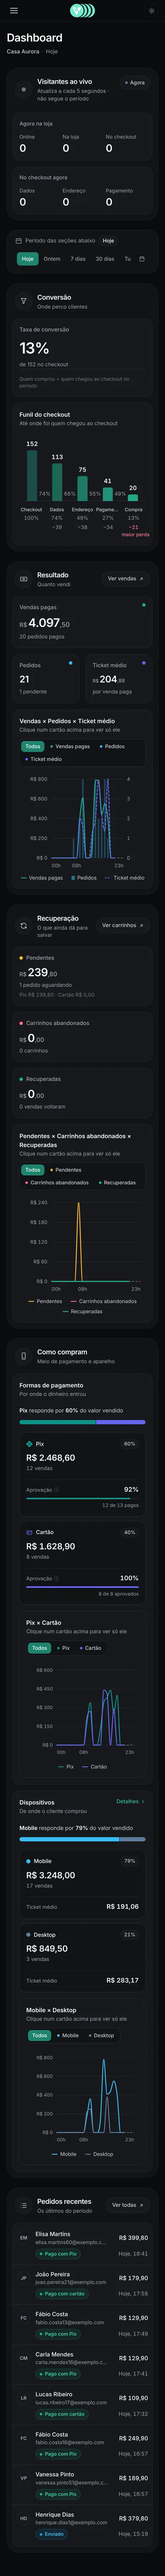
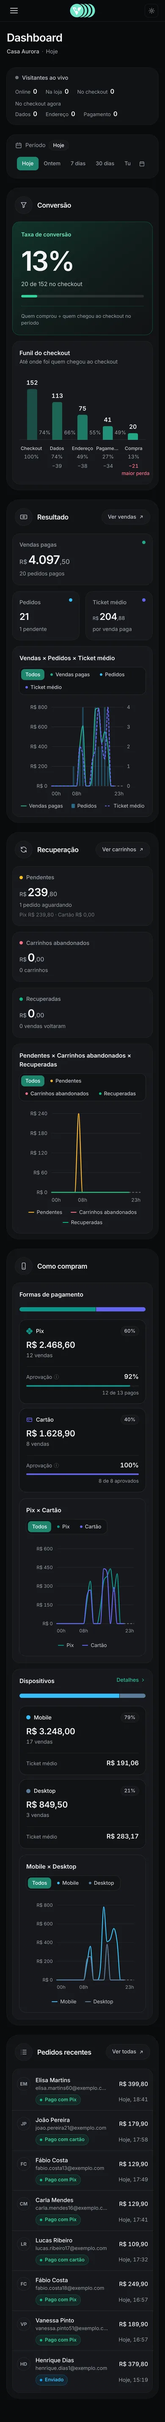
Visitantes ao vivo em faixa baixa, destaque na taxa de conversão, textos mais secos
- Visitantes ao vivo: uma linha só, sem caixas internas, números menores
- Taxa de conversão: fundo verde de destaque, número em 64px, barra e
  "X de Y no checkout"
- remove frases acrescentadas: perguntas sob o título das seções, "mesmas
  etapas do funil", "Período das seções abaixo", frases de quem lidera,
  subtítulos de Formas de pagamento/Dispositivos e instruções de clique
  do gráfico; ficam as explicações originais e as fórmulas

Claude-Session: https://claude.ai/code/session_01Mj6yowmnasuG43TB7WhMV6

diff --git a/index.html b/index.html
@@ -38,7 +38,7 @@ main{padding:22px 28px 60px;min-width:0}
 <main><div class="top"><h1 id="t"></h1><span class="ver" id="v" hidden></span><span class="rota" id="r"></span><div class="nav"><button id="ant">← Anterior</button><button id="prox">Próxima →</button></div></div>
 <div class="shot" id="s"><img id="i" alt=""></div><div class="dica">Telas com chave na coluna têm duas versões: ligada mostra o layout novo, desligada o antigo. Para pedir um ajuste, diga o nome da tela e o que mudar.</div></main></div>
 <script>
-const D=[{"id": "painel-dashboard", "grupo": "Painel do lojista", "titulo": "Dashboard", "rota": "/painel", "img": "telas/painel-dashboard.webp", "w": 1440, "h": 3955, "mobile": false, "antigo": {"img": "telas/painel-dashboard-antigo.webp", "w": 1440, "h": 1708}}, {"id": "painel-inicio", "grupo": "Painel do lojista", "titulo": "Início", "rota": "/painel/inicio", "img": "telas/painel-inicio.webp", "w": 1440, "h": 1024, "mobile": false}, {"id": "painel-vendas", "grupo": "Painel do lojista", "titulo": "Vendas", "rota": "/painel/vendas", "img": "telas/painel-vendas.webp", "w": 1440, "h": 1024, "mobile": false}, {"id": "painel-carrinhos", "grupo": "Painel do lojista", "titulo": "Carrinhos abandonados", "rota": "/painel/carrinhos", "img": "telas/painel-carrinhos.webp", "w": 1440, "h": 1038, "mobile": false}, {"id": "painel-desempenho", "grupo": "Painel do lojista", "titulo": "Desempenho", "rota": "/painel/desempenho", "img": "telas/painel-desempenho.webp", "w": 1440, "h": 1024, "mobile": false}, {"id": "painel-dispositivos", "grupo": "Painel do lojista", "titulo": "Dispositivos", "rota": "/painel/dispositivos", "img": "telas/painel-dispositivos.webp", "w": 1440, "h": 1024, "mobile": false}, {"id": "painel-produtos", "grupo": "Painel do lojista", "titulo": "Produtos", "rota": "/painel/produtos", "img": "telas/painel-produtos.webp", "w": 1440, "h": 1024, "mobile": false}, {"id": "painel-criptografia", "grupo": "Painel do lojista", "titulo": "Criptografia", "rota": "/painel/criptografia", "img": "telas/painel-criptografia.webp", "w": 1440, "h": 1090, "mobile": false}, {"id": "painel-cupons", "grupo": "Painel do lojista", "titulo": "Cupons", "rota": "/painel/cupons", "img": "telas/painel-cupons.webp", "w": 1440, "h": 1024, "mobile": false}, {"id": "painel-order-bump", "grupo": "Painel do lojista", "titulo": "Order bump", "rota": "/painel/order-bump", "img": "telas/painel-order-bump.webp", "w": 1440, "h": 1024, "mobile": false}, {"id": "painel-provas-sociais", "grupo": "Painel do lojista", "titulo": "Provas sociais", "rota": "/painel/provas-sociais", "img": "telas/painel-provas-sociais.webp", "w": 1440, "h": 1024, "mobile": false}, {"id": "painel-personalizar", "grupo": "Painel do lojista", "titulo": "Personalizar checkout", "rota": "/painel/personalizar", "img": "telas/painel-personalizar.webp", "w": 1440, "h": 1024, "mobile": false}, {"id": "painel-pagamentos", "grupo": "Painel do lojista", "titulo": "Pagamentos", "rota": "/painel/pagamentos", "img": "telas/painel-pagamentos.webp", "w": 1440, "h": 1419, "mobile": false}, {"id": "painel-pixels", "grupo": "Painel do lojista", "titulo": "Pixels", "rota": "/painel/pixels", "img": "telas/painel-pixels.webp", "w": 1440, "h": 1024, "mobile": false}, {"id": "painel-emails", "grupo": "Painel do lojista", "titulo": "E-mails", "rota": "/painel/emails", "img": "telas/painel-emails.webp", "w": 1440, "h": 1715, "mobile": false}, {"id": "painel-webhooks", "grupo": "Painel do lojista", "titulo": "Webhooks", "rota": "/painel/webhooks", "img": "telas/painel-webhooks.webp", "w": 1440, "h": 1024, "mobile": false}, {"id": "painel-dominio", "grupo": "Painel do lojista", "titulo": "Domínio", "rota": "/painel/dominio", "img": "telas/painel-dominio.webp", "w": 1440, "h": 1024, "mobile": false}, {"id": "painel-shopify", "grupo": "Painel do lojista", "titulo": "Shopify", "rota": "/painel/shopify", "img": "telas/painel-shopify.webp", "w": 1440, "h": 1024, "mobile": false}, {"id": "painel-apps", "grupo": "Painel do lojista", "titulo": "Apps", "rota": "/painel/apps", "img": "telas/painel-apps.webp", "w": 1440, "h": 1024, "mobile": false}, {"id": "painel-taxas", "grupo": "Painel do lojista", "titulo": "Taxas", "rota": "/painel/taxas", "img": "telas/painel-taxas.webp", "w": 1440, "h": 1024, "mobile": false}, {"id": "painel-plano", "grupo": "Painel do lojista", "titulo": "Plano", "rota": "/painel/plano", "img": "telas/painel-plano.webp", "w": 1440, "h": 1024, "mobile": false}, {"id": "painel-seguranca", "grupo": "Painel do lojista", "titulo": "Segurança", "rota": "/painel/seguranca", "img": "telas/painel-seguranca.webp", "w": 1440, "h": 2548, "mobile": false}, {"id": "painel-configuracoes", "grupo": "Painel do lojista", "titulo": "Configurações", "rota": "/painel/configuracoes", "img": "telas/painel-configuracoes.webp", "w": 1440, "h": 1024, "mobile": false}, {"id": "painel-detalhe-venda", "grupo": "Painel do lojista", "titulo": "Detalhe da venda", "rota": "/painel/vendas/101044fc-720e-4f02-a70a-a1bbfcc3d4ec", "img": "telas/painel-detalhe-venda.webp", "w": 1440, "h": 1024, "mobile": false}, {"id": "painel-caixa-de-emails", "grupo": "Painel do lojista", "titulo": "Caixa de e-mails", "rota": "/painel/emails/caixa", "img": "telas/painel-caixa-de-emails.webp", "w": 1440, "h": 1090, "mobile": false}, {"id": "admin-visao-geral", "grupo": "Admin da plataforma", "titulo": "Visão geral", "rota": "/admin", "img": "telas/admin-inicio.webp", "w": 1440, "h": 1430, "mobile": false}, {"id": "admin-lojas", "grupo": "Admin da plataforma", "titulo": "Lojas", "rota": "/admin/lojas", "img": "telas/admin-lojas.webp", "w": 1440, "h": 900, "mobile": false}, {"id": "admin-usuarios", "grupo": "Admin da plataforma", "titulo": "Usuários", "rota": "/admin/usuarios", "img": "telas/admin-usuarios.webp", "w": 1440, "h": 900, "mobile": false}, {"id": "admin-clientes", "grupo": "Admin da plataforma", "titulo": "Clientes", "rota": "/admin/clientes", "img": "telas/admin-clientes.webp", "w": 1440, "h": 1958, "mobile": false}, {"id": "admin-transacoes", "grupo": "Admin da plataforma", "titulo": "Transações", "rota": "/admin/transacoes", "img": "telas/admin-transacoes.webp", "w": 1440, "h": 1994, "mobile": false}, {"id": "admin-taxas", "grupo": "Admin da plataforma", "titulo": "Taxas", "rota": "/admin/taxas", "img": "telas/admin-taxas.webp", "w": 1440, "h": 900, "mobile": false}, {"id": "admin-assinaturas", "grupo": "Admin da plataforma", "titulo": "Assinaturas", "rota": "/admin/assinaturas", "img": "telas/admin-assinaturas.webp", "w": 1440, "h": 900, "mobile": false}, {"id": "admin-relatorios", "grupo": "Admin da plataforma", "titulo": "Relatórios", "rota": "/admin/relatorios", "img": "telas/admin-relatorios.webp", "w": 1440, "h": 907, "mobile": false}, {"id": "admin-emails", "grupo": "Admin da plataforma", "titulo": "E-mails", "rota": "/admin/emails", "img": "telas/admin-emails.webp", "w": 1440, "h": 900, "mobile": false}, {"id": "admin-configuracoes", "grupo": "Admin da plataforma", "titulo": "Configurações", "rota": "/admin/configuracoes", "img": "telas/admin-configuracoes.webp", "w": 1440, "h": 1286, "mobile": false}, {"id": "celular-dashboard", "grupo": "Painel no celular", "titulo": "Dashboard", "rota": "/painel", "img": "telas/celular-dashboard.webp", "w": 390, "h": 6077, "mobile": true, "antigo": {"img": "telas/celular-dashboard-antigo.webp", "w": 390, "h": 2945}}, {"id": "celular-inicio", "grupo": "Painel no celular", "titulo": "Início", "rota": "/painel/inicio", "img": "telas/celular-inicio.webp", "w": 390, "h": 2208, "mobile": true}, {"id": "celular-vendas", "grupo": "Painel no celular", "titulo": "Vendas", "rota": "/painel/vendas", "img": "telas/celular-vendas.webp", "w": 390, "h": 1410, "mobile": true}, {"id": "acesso-login", "grupo": "Acesso", "titulo": "Login", "rota": "/login", "img": "telas/acesso-login.webp", "w": 1440, "h": 900, "mobile": false}];
+const D=[{"id": "painel-dashboard", "grupo": "Painel do lojista", "titulo": "Dashboard", "rota": "/painel", "img": "telas/painel-dashboard.webp", "w": 1440, "h": 3658, "mobile": false, "antigo": {"img": "telas/painel-dashboard-antigo.webp", "w": 1440, "h": 1708}}, {"id": "painel-inicio", "grupo": "Painel do lojista", "titulo": "Início", "rota": "/painel/inicio", "img": "telas/painel-inicio.webp", "w": 1440, "h": 1024, "mobile": false}, {"id": "painel-vendas", "grupo": "Painel do lojista", "titulo": "Vendas", "rota": "/painel/vendas", "img": "telas/painel-vendas.webp", "w": 1440, "h": 1024, "mobile": false}, {"id": "painel-carrinhos", "grupo": "Painel do lojista", "titulo": "Carrinhos abandonados", "rota": "/painel/carrinhos", "img": "telas/painel-carrinhos.webp", "w": 1440, "h": 1038, "mobile": false}, {"id": "painel-desempenho", "grupo": "Painel do lojista", "titulo": "Desempenho", "rota": "/painel/desempenho", "img": "telas/painel-desempenho.webp", "w": 1440, "h": 1024, "mobile": false}, {"id": "painel-dispositivos", "grupo": "Painel do lojista", "titulo": "Dispositivos", "rota": "/painel/dispositivos", "img": "telas/painel-dispositivos.webp", "w": 1440, "h": 1024, "mobile": false}, {"id": "painel-produtos", "grupo": "Painel do lojista", "titulo": "Produtos", "rota": "/painel/produtos", "img": "telas/painel-produtos.webp", "w": 1440, "h": 1024, "mobile": false}, {"id": "painel-criptografia", "grupo": "Painel do lojista", "titulo": "Criptografia", "rota": "/painel/criptografia", "img": "telas/painel-criptografia.webp", "w": 1440, "h": 1090, "mobile": false}, {"id": "painel-cupons", "grupo": "Painel do lojista", "titulo": "Cupons", "rota": "/painel/cupons", "img": "telas/painel-cupons.webp", "w": 1440, "h": 1024, "mobile": false}, {"id": "painel-order-bump", "grupo": "Painel do lojista", "titulo": "Order bump", "rota": "/painel/order-bump", "img": "telas/painel-order-bump.webp", "w": 1440, "h": 1024, "mobile": false}, {"id": "painel-provas-sociais", "grupo": "Painel do lojista", "titulo": "Provas sociais", "rota": "/painel/provas-sociais", "img": "telas/painel-provas-sociais.webp", "w": 1440, "h": 1024, "mobile": false}, {"id": "painel-personalizar", "grupo": "Painel do lojista", "titulo": "Personalizar checkout", "rota": "/painel/personalizar", "img": "telas/painel-personalizar.webp", "w": 1440, "h": 1024, "mobile": false}, {"id": "painel-pagamentos", "grupo": "Painel do lojista", "titulo": "Pagamentos", "rota": "/painel/pagamentos", "img": "telas/painel-pagamentos.webp", "w": 1440, "h": 1419, "mobile": false}, {"id": "painel-pixels", "grupo": "Painel do lojista", "titulo": "Pixels", "rota": "/painel/pixels", "img": "telas/painel-pixels.webp", "w": 1440, "h": 1024, "mobile": false}, {"id": "painel-emails", "grupo": "Painel do lojista", "titulo": "E-mails", "rota": "/painel/emails", "img": "telas/painel-emails.webp", "w": 1440, "h": 1715, "mobile": false}, {"id": "painel-webhooks", "grupo": "Painel do lojista", "titulo": "Webhooks", "rota": "/painel/webhooks", "img": "telas/painel-webhooks.webp", "w": 1440, "h": 1024, "mobile": false}, {"id": "painel-dominio", "grupo": "Painel do lojista", "titulo": "Domínio", "rota": "/painel/dominio", "img": "telas/painel-dominio.webp", "w": 1440, "h": 1024, "mobile": false}, {"id": "painel-shopify", "grupo": "Painel do lojista", "titulo": "Shopify", "rota": "/painel/shopify", "img": "telas/painel-shopify.webp", "w": 1440, "h": 1024, "mobile": false}, {"id": "painel-apps", "grupo": "Painel do lojista", "titulo": "Apps", "rota": "/painel/apps", "img": "telas/painel-apps.webp", "w": 1440, "h": 1024, "mobile": false}, {"id": "painel-taxas", "grupo": "Painel do lojista", "titulo": "Taxas", "rota": "/painel/taxas", "img": "telas/painel-taxas.webp", "w": 1440, "h": 1024, "mobile": false}, {"id": "painel-plano", "grupo": "Painel do lojista", "titulo": "Plano", "rota": "/painel/plano", "img": "telas/painel-plano.webp", "w": 1440, "h": 1024, "mobile": false}, {"id": "painel-seguranca", "grupo": "Painel do lojista", "titulo": "Segurança", "rota": "/painel/seguranca", "img": "telas/painel-seguranca.webp", "w": 1440, "h": 2548, "mobile": false}, {"id": "painel-configuracoes", "grupo": "Painel do lojista", "titulo": "Configurações", "rota": "/painel/configuracoes", "img": "telas/painel-configuracoes.webp", "w": 1440, "h": 1024, "mobile": false}, {"id": "painel-detalhe-venda", "grupo": "Painel do lojista", "titulo": "Detalhe da venda", "rota": "/painel/vendas/101044fc-720e-4f02-a70a-a1bbfcc3d4ec", "img": "telas/painel-detalhe-venda.webp", "w": 1440, "h": 1024, "mobile": false}, {"id": "painel-caixa-de-emails", "grupo": "Painel do lojista", "titulo": "Caixa de e-mails", "rota": "/painel/emails/caixa", "img": "telas/painel-caixa-de-emails.webp", "w": 1440, "h": 1090, "mobile": false}, {"id": "admin-visao-geral", "grupo": "Admin da plataforma", "titulo": "Visão geral", "rota": "/admin", "img": "telas/admin-inicio.webp", "w": 1440, "h": 1430, "mobile": false}, {"id": "admin-lojas", "grupo": "Admin da plataforma", "titulo": "Lojas", "rota": "/admin/lojas", "img": "telas/admin-lojas.webp", "w": 1440, "h": 900, "mobile": false}, {"id": "admin-usuarios", "grupo": "Admin da plataforma", "titulo": "Usuários", "rota": "/admin/usuarios", "img": "telas/admin-usuarios.webp", "w": 1440, "h": 900, "mobile": false}, {"id": "admin-clientes", "grupo": "Admin da plataforma", "titulo": "Clientes", "rota": "/admin/clientes", "img": "telas/admin-clientes.webp", "w": 1440, "h": 1958, "mobile": false}, {"id": "admin-transacoes", "grupo": "Admin da plataforma", "titulo": "Transações", "rota": "/admin/transacoes", "img": "telas/admin-transacoes.webp", "w": 1440, "h": 1994, "mobile": false}, {"id": "admin-taxas", "grupo": "Admin da plataforma", "titulo": "Taxas", "rota": "/admin/taxas", "img": "telas/admin-taxas.webp", "w": 1440, "h": 900, "mobile": false}, {"id": "admin-assinaturas", "grupo": "Admin da plataforma", "titulo": "Assinaturas", "rota": "/admin/assinaturas", "img": "telas/admin-assinaturas.webp", "w": 1440, "h": 900, "mobile": false}, {"id": "admin-relatorios", "grupo": "Admin da plataforma", "titulo": "Relatórios", "rota": "/admin/relatorios", "img": "telas/admin-relatorios.webp", "w": 1440, "h": 907, "mobile": false}, {"id": "admin-emails", "grupo": "Admin da plataforma", "titulo": "E-mails", "rota": "/admin/emails", "img": "telas/admin-emails.webp", "w": 1440, "h": 900, "mobile": false}, {"id": "admin-configuracoes", "grupo": "Admin da plataforma", "titulo": "Configurações", "rota": "/admin/configuracoes", "img": "telas/admin-configuracoes.webp", "w": 1440, "h": 1286, "mobile": false}, {"id": "celular-dashboard", "grupo": "Painel no celular", "titulo": "Dashboard", "rota": "/painel", "img": "telas/celular-dashboard.webp", "w": 390, "h": 5716, "mobile": true, "antigo": {"img": "telas/celular-dashboard-antigo.webp", "w": 390, "h": 2945}}, {"id": "celular-inicio", "grupo": "Painel no celular", "titulo": "Início", "rota": "/painel/inicio", "img": "telas/celular-inicio.webp", "w": 390, "h": 2208, "mobile": true}, {"id": "celular-vendas", "grupo": "Painel no celular", "titulo": "Vendas", "rota": "/painel/vendas", "img": "telas/celular-vendas.webp", "w": 390, "h": 1410, "mobile": true}, {"id": "acesso-login", "grupo": "Acesso", "titulo": "Login", "rota": "/login", "img": "telas/acesso-login.webp", "w": 1440, "h": 900, "mobile": false}];
 const st={};D.forEach(d=>{if(d.antigo)st[d.id]=true});
 try{const s=JSON.parse(localStorage.getItem('voxdash-layout')||'{}');for(const k in s)if(k in st)st[k]=!!s[k]}catch(e){}
 function save(){try{localStorage.setItem('voxdash-layout',JSON.stringify(st))}catch(e){}}

diff --git a/src/components/painel/dashboard/DashboardView.tsx b/src/components/painel/dashboard/DashboardView.tsx
@@ -114,25 +114,32 @@ export default function DashboardView({ data }: { data: DashboardData }) {
         <div className="flex flex-wrap items-center justify-between gap-x-6 gap-y-3 rounded-[22px] bg-card px-5 py-3.5 ring-1 ring-line">
           <p className="flex items-center gap-2 text-[13px] text-low">
             <Icon name="calendar" />
-            Período das seções abaixo
+            Período
             <span className="rounded-full bg-soft px-2.5 py-0.5 text-[12px] font-medium text-hi ring-1 ring-line">{data.period.label}</span>
           </p>
           <PeriodControl active={data.period.key} from={data.period.from} to={data.period.to} />
         </div>
 
         {/* ── Conversão: a taxa ao lado do funil que a explica ── */}
-        <Box icon="funnel" title="Conversão" question="Onde perco clientes">
+        <Box icon="funnel" title="Conversão">
           <PendingArea>
-            <div className="grid gap-4 lg:grid-cols-[230px_minmax(0,1fr)]">
-              <div className="flex min-w-0 flex-col rounded-2xl bg-soft p-4 ring-1 ring-line sm:p-5">
-                <span className="text-[13px] font-medium text-low" title="Quem comprou ÷ quem chegou ao checkout no período">
+            <div className="grid gap-4 lg:grid-cols-[280px_minmax(0,1fr)]">
+              <div className="relative flex min-w-0 flex-col overflow-hidden rounded-2xl bg-gradient-to-br from-emerald-500/20 via-emerald-500/[0.07] to-transparent p-5 ring-1 ring-emerald-500/35 sm:p-6">
+                <span className="text-[13px] font-semibold text-emerald-700 dark:text-emerald-300" title="Quem comprou ÷ quem chegou ao checkout no período">
                   Taxa de conversão
                 </span>
-                <div className="mt-4 whitespace-nowrap text-[36px] font-semibold leading-none tracking-[-0.03em] text-hi">
-                  {conversion === null ? "—" : <AnimatedNumber value={conversion} format="pct" />}
+                <div className="flex flex-1 flex-col justify-center py-5">
+                  <div className="whitespace-nowrap text-[64px] font-semibold leading-none tracking-[-0.04em] text-hi">
+                    {conversion === null ? "—" : <AnimatedNumber value={conversion} format="pct" />}
+                  </div>
+                  <p className="mt-3 text-[13.5px] text-mid">{base > 0 ? `${bought} de ${base} no checkout` : "Nenhum checkout"}</p>
+                  {conversion !== null && (
+                    <span aria-hidden className="relative mt-4 block h-1.5 overflow-hidden rounded-full bg-emerald-900/10 dark:bg-white/10">
+                      <span className="absolute inset-y-0 left-0 rounded-full bg-emerald-500 dark:bg-emerald-400" style={{ width: `${Math.min(100, conversion)}%` }} />
+                    </span>
+                  )}
                 </div>
-                <p className="mt-3 text-[12.5px] text-low">{base > 0 ? `de ${base} no checkout` : "Nenhum checkout"}</p>
-                <p className="mt-auto border-t border-line pt-4 text-[11.5px] leading-snug text-dim">
+                <p className="border-t border-emerald-500/20 pt-4 text-[11.5px] leading-snug text-low">
                   Quem comprou ÷ quem chegou ao checkout no período
                 </p>
               </div>
@@ -149,7 +156,7 @@ export default function DashboardView({ data }: { data: DashboardData }) {
         </Box>
 
         {/* ── Resultado ── */}
-        <Box icon="cash" title="Resultado" question="Quanto vendi" link={{ href: "/painel/vendas", label: "Ver vendas" }}>
+        <Box icon="cash" title="Resultado" link={{ href: "/painel/vendas", label: "Ver vendas" }}>
           <PendingArea>
             <MetricPanel
               {...chart}
@@ -202,7 +209,7 @@ export default function DashboardView({ data }: { data: DashboardData }) {
         </Box>
 
         {/* ── Recuperação: dinheiro parado e o que voltou ── */}
-        <Box icon="refresh" title="Recuperação" question="O que ainda dá para salvar" link={{ href: "/painel/carrinhos", label: "Ver carrinhos" }}>
+        <Box icon="refresh" title="Recuperação" link={{ href: "/painel/carrinhos", label: "Ver carrinhos" }}>
           <PendingArea>
             <h3 className="sr-only">Recuperação de vendas</h3>
             <MetricPanel
@@ -262,10 +269,10 @@ export default function DashboardView({ data }: { data: DashboardData }) {
         </Box>
 
         {/* ── Como compram: meio de pagamento e aparelho ── */}
-        <Box icon="device" title="Como compram" question="Meio de pagamento e aparelho">
+        <Box icon="device" title="Como compram">
           <PendingArea>
             <div className="grid gap-4 xl:grid-cols-2">
-              <Card title="Formas de pagamento" subtitle="Por onde o dinheiro entrou">
+              <Card title="Formas de pagamento">
                 <SplitHeader rows={payRows} empty="Nenhuma venda paga no período." />
                 <div className="mt-5">
                   <MetricPanel
@@ -286,7 +293,7 @@ export default function DashboardView({ data }: { data: DashboardData }) {
 
               {/* Tablet entra em Mobile, e pedidos anteriores ao registro de
                   dispositivo ficam de fora — mesma regra da tela cheia. */}
-              <Card title="Dispositivos" subtitle="De onde o cliente comprou" link={{ href: "/painel/dispositivos", label: "Detalhes" }}>
+              <Card title="Dispositivos" link={{ href: "/painel/dispositivos", label: "Detalhes" }}>
                 <SplitHeader rows={devRows} empty="Nenhuma venda paga no período." />
                 <div className="mt-5">
                   <MetricPanel
@@ -309,7 +316,7 @@ export default function DashboardView({ data }: { data: DashboardData }) {
         </Box>
 
         {/* ── Últimos pedidos ── */}
-        <Box icon="list" title="Pedidos recentes" question="Os últimos do período" link={{ href: "/painel/vendas", label: "Ver todas" }}>
+        <Box icon="list" title="Pedidos recentes" link={{ href: "/painel/vendas", label: "Ver todas" }}>
           <PendingArea>
             <div className="rounded-2xl bg-soft px-1.5 py-1 ring-1 ring-line sm:px-3">
               <RecentOrders orders={data.recent} bare />
@@ -351,7 +358,7 @@ function Box({
 }: {
   icon: string;
   title: string;
-  question: string;
+  question?: string;
   link?: { href: string; label: string };
   children: React.ReactNode;
 }) {
@@ -364,7 +371,7 @@ function Box({
           </span>
           <div className="min-w-0">
             <h2 className="text-[16px] font-semibold tracking-tight text-hi">{title}</h2>
-            <p className="mt-0.5 text-[12.5px] leading-snug text-low">{question}</p>
+            {question && <p className="mt-0.5 text-[12.5px] leading-snug text-low">{question}</p>}
           </div>
         </div>
         {link && (

diff --git a/src/components/painel/LiveVisitors.tsx b/src/components/painel/LiveVisitors.tsx
@@ -61,44 +61,39 @@ export default function LiveVisitors({ className = "", variant = "card" }: { cla
   ];
 
   if (variant === "strip") {
+    // Faixa baixa e discreta: uma linha com os seis números, sem caixas internas.
+    const Fig = ({ label, value, share }: { label: string; value: number; share?: number | null }) => (
+      <div className="flex min-w-0 items-baseline gap-1.5 whitespace-nowrap">
+        <dt className="text-[12px] text-low">{label}</dt>
+        <dd className="flex items-baseline gap-1">
+          <span className="text-[15px] font-semibold tabular-nums text-hi">{loading ? <span className="text-dim">—</span> : <AnimatedNumber value={value} />}</span>
+          {share != null && !loading && <span className="text-[11.5px] tabular-nums text-dim">{share}%</span>}
+        </dd>
+      </div>
+    );
     return (
-      <section className={`flex min-w-0 flex-col rounded-[28px] bg-card p-3.5 ring-1 ring-line sm:p-6 lg:p-7 ${className}`} aria-label="Visitantes ao vivo">
-        <div className="flex items-start justify-between gap-4 px-1.5 pt-1.5 sm:px-0 sm:pt-0">
-          <div className="flex min-w-0 items-center gap-3">
-            <span aria-hidden className="grid h-10 w-10 shrink-0 place-items-center rounded-full bg-soft ring-1 ring-line">
-              <span className={`h-2.5 w-2.5 rounded-full ${online > 0 ? "bg-emerald-500" : "bg-dim"}`} />
-            </span>
-            <div className="min-w-0">
-              <h2 className="text-[16px] font-semibold tracking-tight text-hi">Visitantes ao vivo</h2>
-              <p className="mt-0.5 text-[12.5px] text-low">Atualiza a cada 5 segundos · não segue o período</p>
-            </div>
-          </div>
-          <span className="flex shrink-0 items-center gap-1.5 rounded-full bg-soft px-3 py-1.5 text-[12px] font-medium text-mid ring-1 ring-line">
-            <span aria-hidden className={`h-1.5 w-1.5 rounded-full ${online > 0 ? "bg-emerald-500" : "bg-dim"}`} />
-            Agora
-          </span>
+      <section
+        className={`flex min-w-0 flex-col gap-3 rounded-[22px] bg-card px-5 py-3.5 ring-1 ring-line lg:flex-row lg:items-center lg:gap-6 ${className}`}
+        aria-label="Visitantes ao vivo"
+      >
+        <div className="flex shrink-0 items-center gap-2" title="Atualiza a cada 5 segundos">
+          <span aria-hidden className={`h-2 w-2 rounded-full ${online > 0 ? "bg-emerald-500" : "bg-dim"}`} />
+          <h2 className="text-[13px] font-medium text-mid">Visitantes ao vivo</h2>
         </div>
-        <div className="mt-6 grid flex-1 gap-4 md:grid-cols-2">
-          <div className="flex min-w-0 flex-col justify-center rounded-2xl bg-soft p-4 ring-1 ring-line sm:p-5">
-            <h3 className="text-[12.5px] font-medium text-low">Agora na loja</h3>
-            <dl className="mt-3 grid grid-cols-3 gap-2">
-              <LiveFigure label="Online" value={online} loading={loading} />
-              <LiveFigure label="Na loja" value={loja} loading={loading} share={online > 0 ? share(loja) : null} />
-              <LiveFigure label="No checkout" value={checkout} loading={loading} share={online > 0 ? share(checkout) : null} />
-            </dl>
+        <dl className="flex min-w-0 flex-1 flex-col gap-2 sm:flex-row sm:flex-wrap sm:items-center sm:gap-x-5">
+          <div className="flex flex-wrap items-center gap-x-5 gap-y-1">
+            <Fig label="Online" value={online} />
+            <Fig label="Na loja" value={loja} share={online > 0 ? share(loja) : null} />
+            <Fig label="No checkout" value={checkout} share={online > 0 ? share(checkout) : null} />
           </div>
-          <div className="flex min-w-0 flex-col justify-center rounded-2xl bg-soft p-4 ring-1 ring-line sm:p-5">
-            <h3 className="flex items-baseline justify-between gap-2 text-[12.5px] font-medium text-low">
-              No checkout agora
-              <span className="hidden text-[11.5px] font-normal text-dim sm:inline">mesmas etapas do funil</span>
-            </h3>
-            <dl className="mt-3 grid grid-cols-3 gap-2">
-              {steps.map((s) => (
-                <LiveFigure key={s.label} label={s.label} value={s.n} loading={loading} share={checkout > 0 ? inCheckout(s.n) : null} />
-              ))}
-            </dl>
+          <span aria-hidden className="hidden h-4 w-px bg-line sm:block" />
+          <div className="flex flex-wrap items-center gap-x-5 gap-y-1">
+            <span className="w-full text-[12px] text-low sm:w-auto">No checkout agora</span>
+            {steps.map((st) => (
+              <Fig key={st.label} label={st.label} value={st.n} share={checkout > 0 ? inCheckout(st.n) : null} />
+            ))}
           </div>
-        </div>
+        </dl>
       </section>
     );
   }

diff --git a/src/components/painel/dashboard/MetricPanel.tsx b/src/components/painel/dashboard/MetricPanel.tsx
@@ -57,7 +57,6 @@ export default function MetricPanel({
               type="button"
               aria-pressed={on}
               onClick={() => setSel(on ? null : it.key)}
-              title={on ? "Clique para voltar a ver tudo no gráfico" : `Ver só ${it.label} no gráfico`}
               className={`group relative block min-w-0 rounded-2xl text-left transition duration-150 focus-visible:outline-none focus-visible:ring-2 focus-visible:ring-brand/50 ${
                 on ? "ring-2 ring-brand/60" : "hover:ring-1 hover:ring-line-strong"
               } ${dim ? "opacity-60 hover:opacity-100" : ""} ${it.className ?? ""} ${itemClassName}`}
@@ -77,9 +76,6 @@ export default function MetricPanel({
         <div className={`mb-4 flex gap-3 ${compact ? "flex-col items-start" : "flex-wrap items-center justify-between"}`}>
           <div className="min-w-0">
             <h3 className="text-[14px] font-semibold text-hi">{sel ? selLabel : chartTitle}</h3>
-            <p className="mt-0.5 text-[12.5px] text-low">
-              {sel ? "Clique no cartão de novo para ver tudo junto" : "Clique num cartão acima para ver só ele"}
-            </p>
           </div>
           <div role="group" aria-label="Série do gráfico" className="flex flex-wrap gap-1 rounded-xl bg-card p-1 ring-1 ring-line">
             <Chip on={sel === null} onClick={() => setSel(null)}>

diff --git a/src/components/painel/dashboard/Viz.tsx b/src/components/painel/dashboard/Viz.tsx
@@ -150,21 +150,10 @@ export function Split({ rows, metricLabel, empty }: { rows: SplitRow[]; metricLa
 export function SplitHeader({ rows, empty }: { rows: Part[]; empty: string }) {
   const total = rows.reduce((s, r) => s + r.cents, 0);
   const shareOf = (r: Part) => (total > 0 ? (r.cents / total) * 100 : 0);
-  const leader = total > 0 ? rows.reduce((a, b) => (b.cents > a.cents ? b : a)) : null;
   let left = 0;
   return (
     <div className="min-w-0">
-      <p className="text-[13px] text-mid">
-        {leader ? (
-          <>
-            <span className="font-semibold text-hi">{leader.label}</span> responde por{" "}
-            <span className="font-semibold tabular-nums text-hi">{Math.round(shareOf(leader))}%</span> do valor vendido
-          </>
-        ) : (
-          empty
-        )}
-      </p>
-      <div aria-hidden className="relative mt-3 h-2.5 overflow-hidden rounded-full bg-hover">
+      <div aria-hidden className="relative h-2.5 overflow-hidden rounded-full bg-hover">
         {total > 0 &&
           rows.map((r) => {
             const w = shareOf(r);
